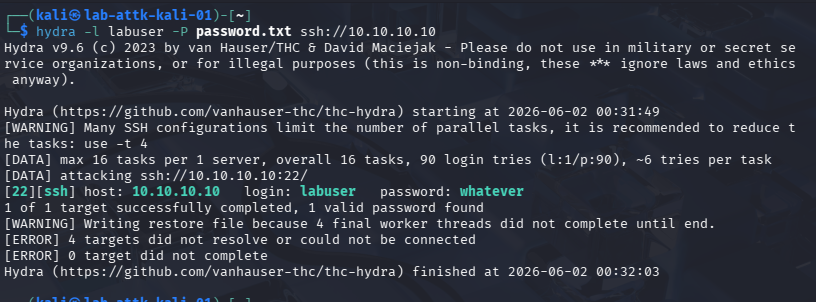
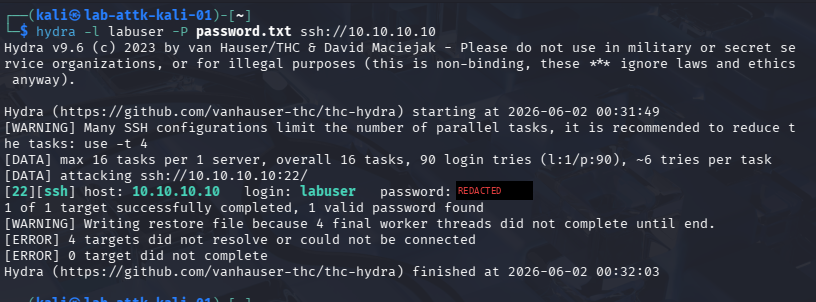
Prep for public release: redact screenshot, fix markdown, add LICENSE + custom rule, Mermaid diagrams, README polish

Changed region(s): [[0.5515, 0.596, 0.674, 0.6854]]

diff --git a/README.md b/README.md
@@ -2,6 +2,24 @@
 
 A Proxmox-based cybersecurity homelab designed for attack simulation, intrusion detection, SIEM monitoring, and blue-team / red-team practice.
 
+## Skills Demonstrated
+
+- Network segmentation and firewall policy design (OPNsense, VLAN-style zoning)
+- SIEM deployment and administration (Wazuh)
+- Intrusion detection with Suricata (IDS/IPS)
+- Detection engineering: authoring and validating a custom Wazuh correlation rule
+- MITRE ATT&CK mapping of observed activity
+- Log-pipeline troubleshooting (syslog forwarding, rsyslog message-reduction)
+- Controlled attack simulation and analyst-style triage
+- Local-LLM integration for read-only, human-in-the-loop alert triage
+
+## Ethical Use
+
+All testing in this project was performed against isolated, self-owned lab
+infrastructure using temporary, lab-only accounts. No public systems, networks,
+or third-party accounts were targeted. The offensive tooling notes here exist to
+validate detection coverage, not to enable unauthorized access.
+
 ## Overview
 
 This project documents the design and implementation of a segmented virtual security lab using:
@@ -26,18 +44,17 @@ The lab simulates a small enterprise network with separate zones for management,
 
 ## Architecture
 
-```text
-                 Internet
-                     │
-                 Home Router
-                     │
-                  OPNsense
-      ┌──────────────┼───────────────┬───────────────┐
-      │              │               │               │
- MGMT (vmbr1)    SERVERS (vmbr2)  ATTACK (vmbr3)  SOC (vmbr4)
-10.10.0.0/24     10.10.10.0/24    10.10.30.0/24   10.10.40.0/24
-Ubuntu Desktop   Ubuntu Server    Kali Linux      Wazuh SOC
-VM 101           VM 200           VM 400          VM 300
+```mermaid
+flowchart TD
+    NET[Internet] --> RTR[Home Router]
+    RTR --> FW["OPNsense Firewall<br/>VM 100 · lab-fw-edge-01<br/>Suricata IDS/IPS"]
+    FW --> MGMT["MGMT · vmbr1<br/>10.10.0.0/24<br/>Mgmt Workstation · VM 101"]
+    FW --> SRV["SERVERS · vmbr2<br/>10.10.10.0/24<br/>Web Server · VM 200"]
+    FW --> ATK["ATTACK · vmbr3<br/>10.10.30.0/24<br/>Kali · VM 400"]
+    FW --> SOC["SOC · vmbr4<br/>10.10.40.0/24<br/>Wazuh · VM 300<br/>AI Triage · 10.10.40.20"]
+    ATK -. simulated attack .-> SRV
+    SRV -. agent logs .-> SOC
+    FW -. syslog 514 .-> SOC
 ```
 ## Virtual Machines
 
@@ -59,18 +76,19 @@ VM 101           VM 200           VM 400          VM 300
 - Nmap
 
 ## Detection Pipeline
-```text
-Kali attacker
-      ↓
-OPNsense firewall
-      ↓
-Suricata IDS/IPS
-      ↓
-Syslog forwarding
-      ↓
-Wazuh SIEM
-      ↓
-SOC dashboard alerts
+
+```mermaid
+flowchart LR
+    A[Kali attacker] --> B[OPNsense + Suricata]
+    B --> C[Syslog / Wazuh agent]
+    C --> D[Wazuh manager]
+    D --> E{Rule match?}
+    E -->|rule 100101| F["custom-ai-triage<br/>allowlisted fields only"]
+    E -->|routine| G[Dashboard telemetry]
+    F --> H["Local Ollama · qwen3:4b"]
+    H --> I[AI recommendations]
+    I --> J[Python renders trusted evidence]
+    J --> K[Human analyst review]
 ```
 ## Validated Detection Scenarios
 
@@ -128,6 +146,8 @@ The rule was validated with:
 - a negative-control test
 - live-telemetry troubleshooting after identifying rsyslog message compression
 
+The rule definition is in [`configs/wazuh-custom/local_rules.xml`](configs/wazuh-custom/local_rules.xml).
+
 ## Repository Structure
 - docs/ → design and implementation notes
 
@@ -151,10 +171,7 @@ The rule was validated with:
 
 - automated attack simulation
 
-## Author
-
-Trevor Henry Chiboora
-Cybersecurity Research Engineer## Local AI-Assisted SOC Triage
+## Local AI-Assisted SOC Triage
 
 After validating custom Wazuh rule `100101`, I added a local read-only
 AI-assisted triage workflow.
@@ -182,3 +199,10 @@ Validation included:
 - a routine-login negative-control test.
 
 [Read the AI SOC triage-agent documentation](ai-soc-agent/README.md)
+
+---
+
+## Author
+
+Trevor Henry Chiboora  
+Cybersecurity Research Engineer

diff --git a/ai-soc-agent/README.md b/ai-soc-agent/README.md
@@ -46,37 +46,18 @@ generated.
 
 ## Architecture
 
-```text
-Kali attacker VM
-10.10.30.10
-        ↓
-Ubuntu target server
-web-server-01
-10.10.10.10
-        ↓
-Wazuh agent
-        ↓
-Wazuh manager
-10.10.40.10
-        ↓
-Custom Wazuh rule 100101
-        ↓
-Wazuh Integrator
-custom-ai-triage
-        ↓
-Allowlisted JSON fields only
-        ↓
-Local Ollama API
-lab-ai-triage-01
-10.10.40.20:11434
-        ↓
-qwen3:4b local model
-        ↓
-AI-generated investigation recommendations
-        ↓
-Python-rendered authoritative evidence
-        ↓
-Human analyst review
+```mermaid
+flowchart TD
+    A["Kali attacker VM<br/>10.10.30.10"] --> B["Ubuntu target · web-server-01<br/>10.10.10.10"]
+    B --> C[Wazuh agent]
+    C --> D["Wazuh manager<br/>10.10.40.10"]
+    D --> E[Custom Wazuh rule 100101]
+    E --> F["Wazuh Integrator<br/>custom-ai-triage"]
+    F --> G[Allowlisted JSON fields only]
+    G --> H["Local Ollama API · lab-ai-triage-01<br/>10.10.40.20:11434 · qwen3:4b"]
+    H --> I[AI-generated investigation recommendations]
+    I --> J[Python-rendered authoritative evidence]
+    J --> K[Human analyst review]
 ```
 
 ## Supported Detection Use Case
@@ -207,7 +188,7 @@ During iterative testing, report-generation latency improved from approximately
 ai-soc-agent/
 ├── README.md
 ├── agent/
-│   └── offline_triage.py
+│   └── live_triage.py
 ├── integration/
 │   └── custom-ai-triage
 ├── playbooks/

diff --git a/configs/opnsense-settings.md b/configs/opnsense-settings.md
@@ -1,7 +1,3 @@
-
-## `configs/opnsense-settings.md`
-
-```markdown
 # OPNsense Settings Reference
 
 ## Interfaces
@@ -15,6 +11,7 @@
 ## Firewall Rules
 
 Pass rules created for:
+
 - SERVERS net → any
 - ATTACK net → any
 - SOC net → any
@@ -22,6 +19,7 @@ Pass rules created for:
 ## Remote Logging
 
 Remote log target:
+
 - Host: 10.10.40.10
 - Port: 514
 - Transport: UDP

diff --git a/attacks/nmap-scan.md b/attacks/nmap-scan.md
@@ -1,6 +1,3 @@
-## `attacks/nmap-scan.md`
-
-```markdown
 # Nmap Scan
 
 ## Command
@@ -10,14 +7,18 @@ nmap -sS -A 10.10.10.10
 ```
 
 ## Purpose
+
 - identify open ports
 - detect services
 - simulate reconnaissance
 
 ## Result
+
 Observed open services:
+
 - 22/tcp SSH
 - 80/tcp HTTP
 
 ## Detection
+
 Suricata generated scan-related alerts.

diff --git a/attacks/nikto-scan.md b/attacks/nikto-scan.md
@@ -1,6 +1,3 @@
-## `attacks/nikto-scan.md`
-
-```markdown
 # Nikto Scan
 
 ## Command
@@ -8,6 +5,8 @@
 ```bash
 nikto -h http://10.10.10.10
 ```
+
 ## Purpose
+
 - scan web server for common weaknesses
 - generate web-focused IDS traffic
